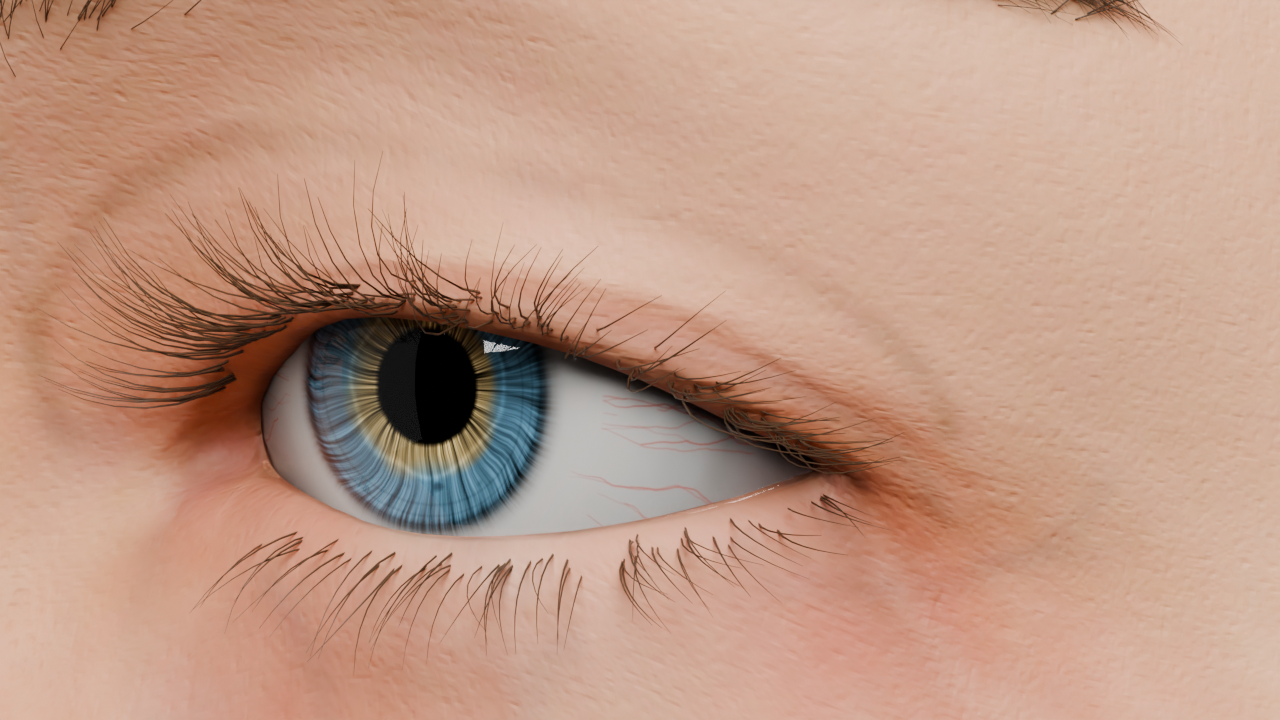
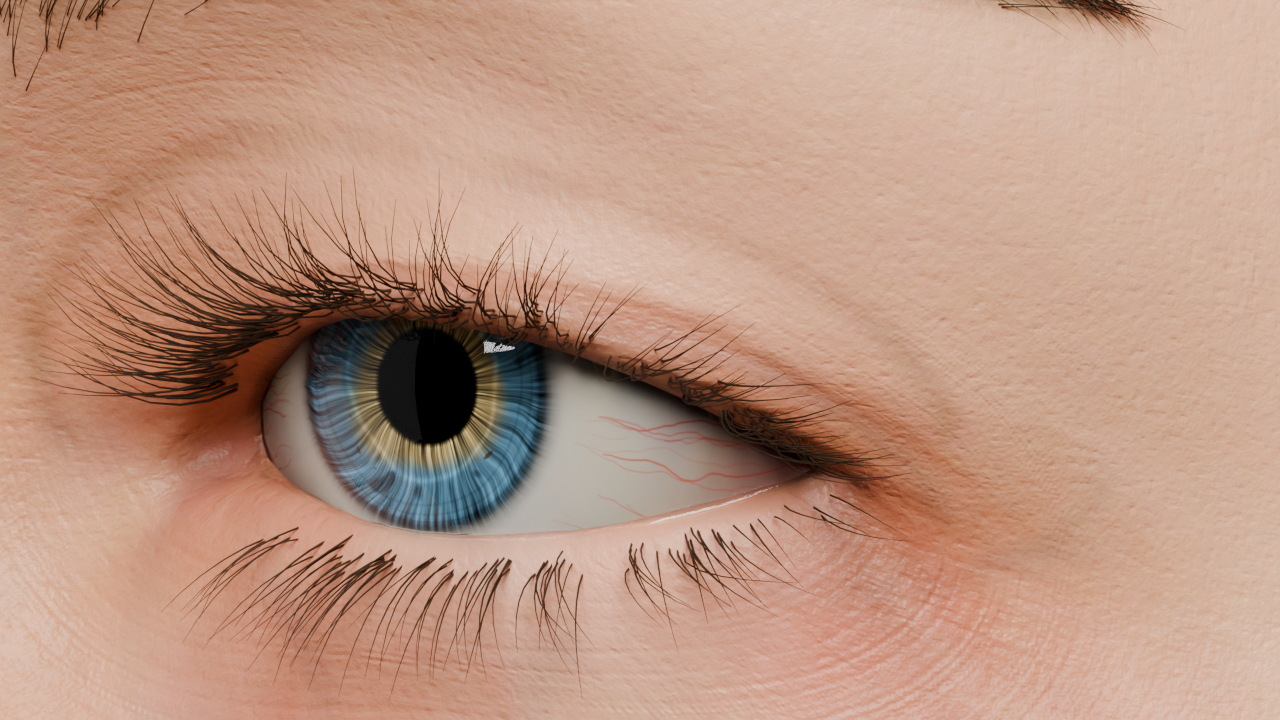
pipeline: one-command reproduce script and requirements; fresh-clone test passed

diff --git a/README.md b/README.md
@@ -19,6 +19,8 @@ Everything is generated by scripts in this repo: textures, eyelid controls, lash
 
 ## Run it
 
+Everything in one go from a fresh clone (verified 13 Nov: tests pass, model and skin files download with checksums, fits reproduce bit-for-bit): `./reproduce.sh` (final quality, hours) or `./reproduce.sh draft`.
+
 Needs Blender 4.5 LTS and Python 3 with `numpy scipy pillow` (only for generating assets; rendering uses Blender's own Python).
 
 ```bash
